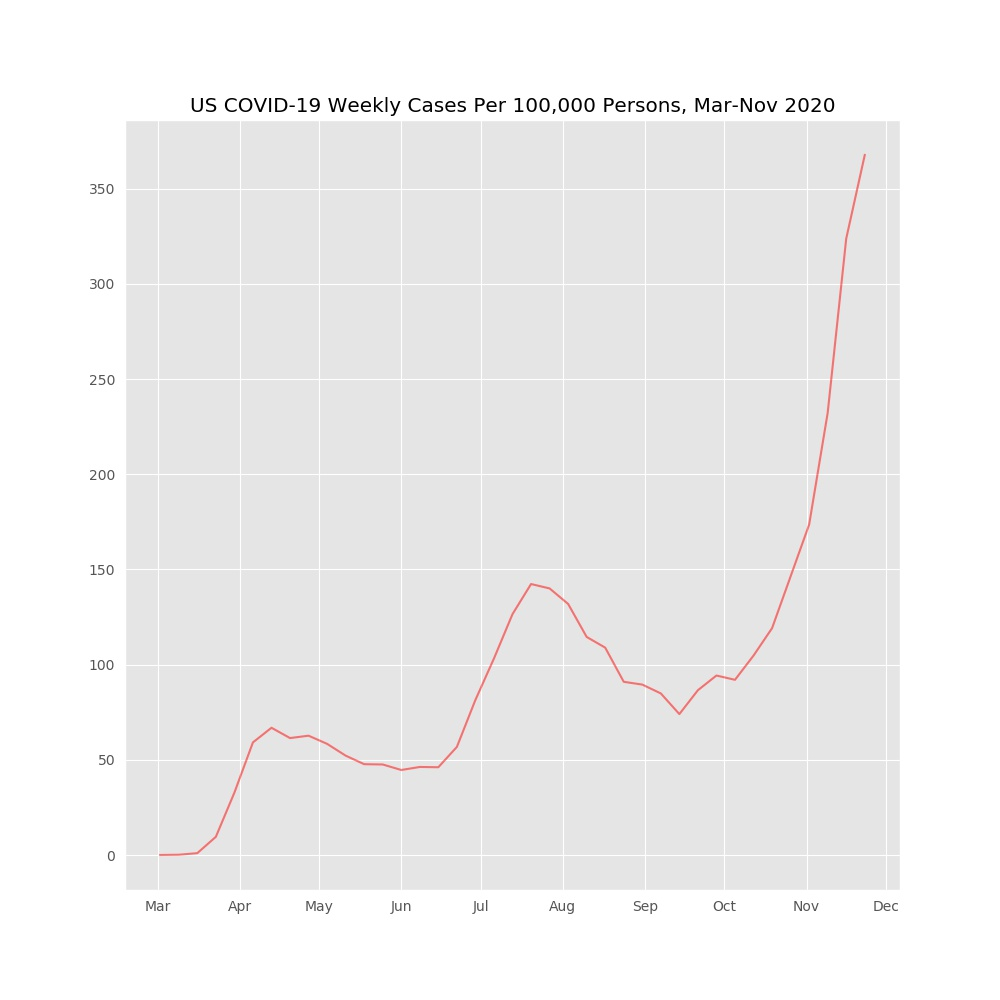
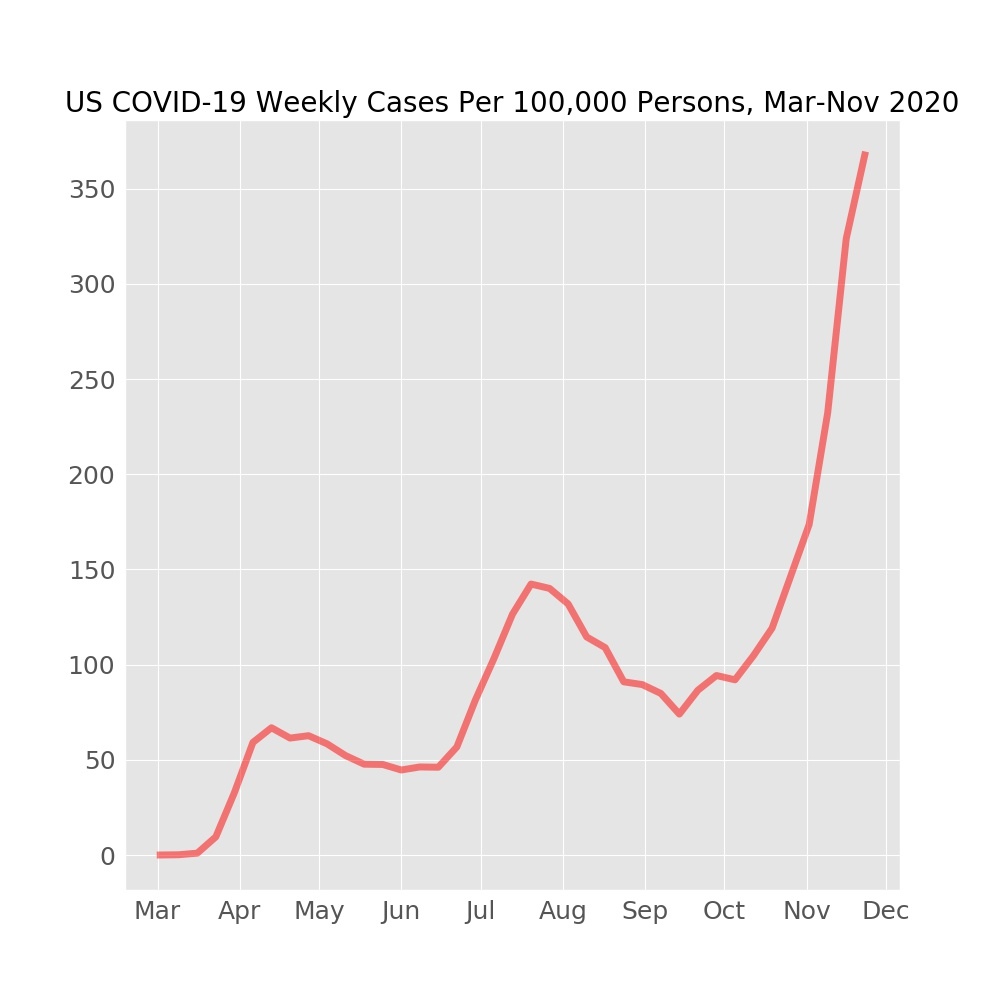
updated animated case and deaths over time plots and started work on underlying condition rep perc plot in R.

diff --git a/code_plots/ecdc_cases_ani_plot/ecdc_anim_plot.py b/code_plots/ecdc_cases_ani_plot/ecdc_anim_plot.py
@@ -53,7 +53,7 @@ def update(num, x, y, line):
     return line,
 
 
-def plot_path(vars_dict: Dict[str, object], plt_title: str,
+def plot_path(vars_dict: Dict[str, object], plt_title: str, linecolor: str,
               gif_fn: str, jpg_fn: str) -> None:
     """ Plot path taken by person until intersection happens """
 
@@ -62,12 +62,18 @@ def plot_path(vars_dict: Dict[str, object], plt_title: str,
 
     with plt.style.context('ggplot'):
         fig, ax = plt.subplots(figsize=(10, 10))
-        line, = ax.plot(xs, ys, color='r', alpha=.5)
+        line, = ax.plot(xs, ys, color=linecolor, alpha=.5, linewidth=5)
 
         ax.xaxis.set_major_formatter(DateFormatter("%b"))
         ax.yaxis.set_major_formatter(plt.FuncFormatter(lambda y, loc: f"{int(y):,}"))
 
-        plt.title(plt_title)
+        # parameters = {'axes.titlesize': 20,
+                      # 'xtick.labelsize': 18,
+                      # 'ytick.labelsize': 18}
+        # plt.rcParams.update(parameters)
+        ax.tick_params(axis='both', which='major', labelsize=18)
+
+        plt.title(plt_title, fontsize = 20)
 
         plt.tick_params(
             axis='both',
@@ -112,6 +118,7 @@ if __name__ == '__main__':
 
     plot_path(vars_dict=get_plot_vars(df=cases, yVar='cases'),
               plt_title='US COVID-19 Weekly Cases Per 100,000 Persons, Mar-Nov 2020',
+              linecolor='red',
               gif_fn='plots/cases_animation.gif',
               jpg_fn='plots/cases_animation.jpg')
 
@@ -120,6 +127,7 @@ if __name__ == '__main__':
 
     plot_path(vars_dict=get_plot_vars(df=deaths, yVar='deaths'),
               plt_title='US COVID-19 Weekly Deaths Per 100,000 Persons, Mar-Nov 2020',
+              linecolor='black',
               gif_fn='plots/deaths_animation.gif',
               jpg_fn='plots/deaths_animation.jpg')
 
